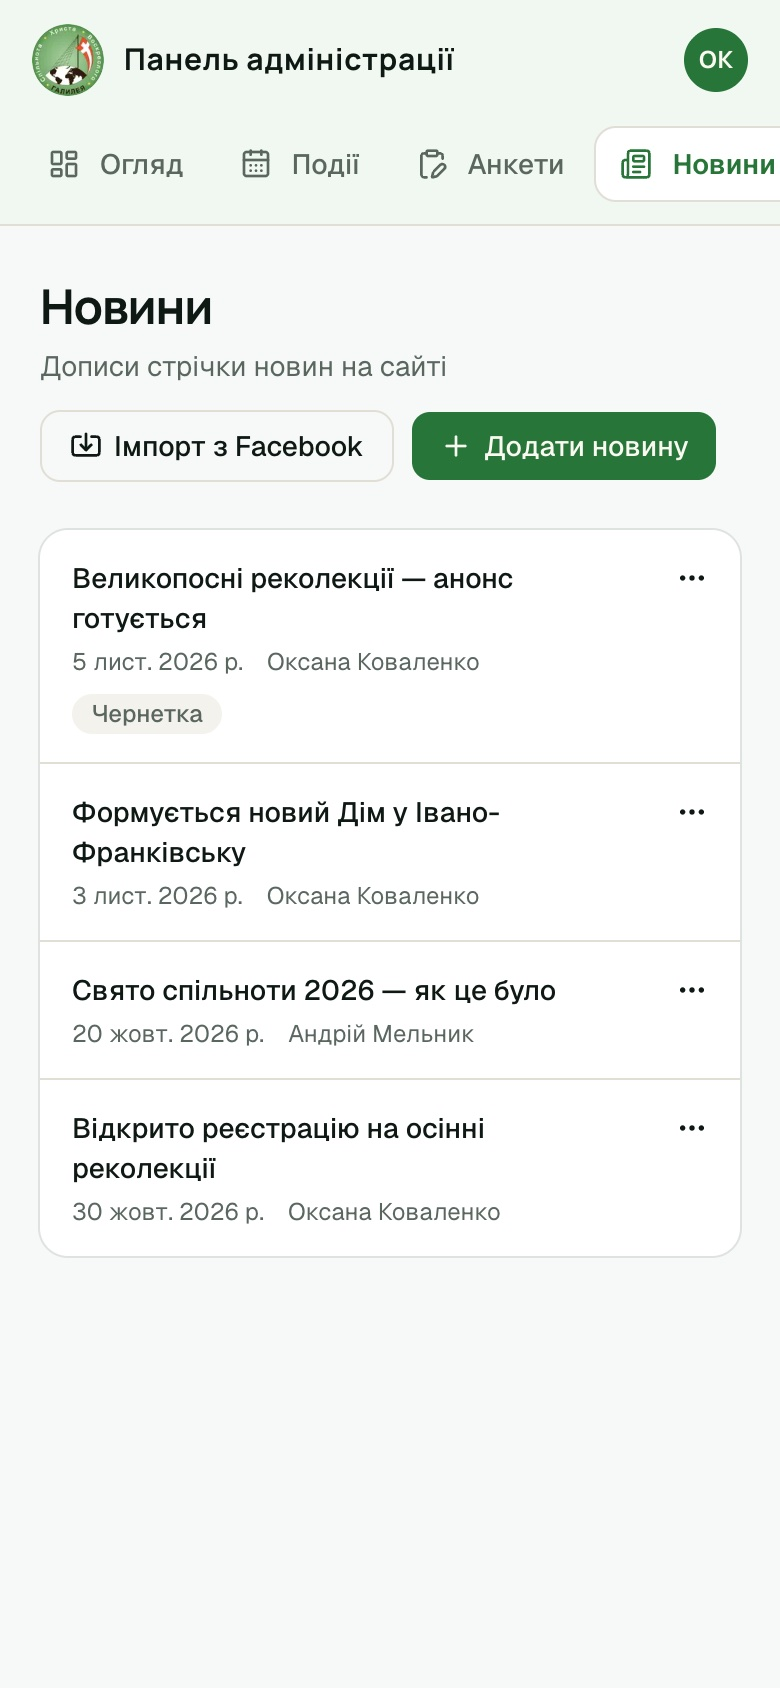
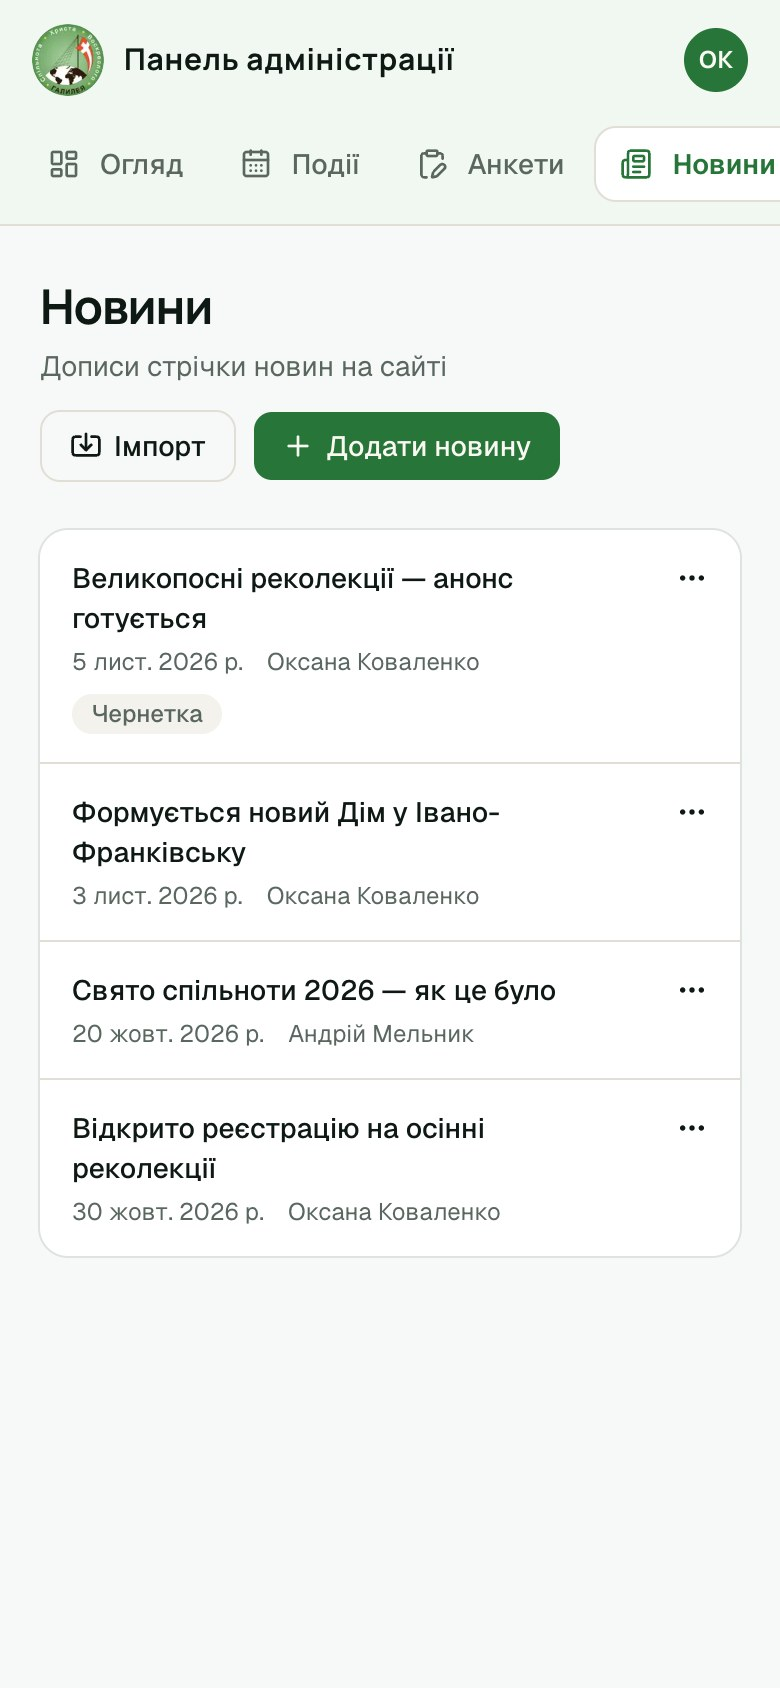
docs(telegram): notification switches on the site; «Імпорт» instead of Facebook
- «Telegram-бот»: two new steps on the linked «Telegram» dialog — which
  account is linked, and the switches (with their hints and folded sections);
  /notifications is "the same in the bot".
- «Telegram для координатора»: «Заявки на Доми» switched on the site and its
  «Напрям» chips, green with a ✓ when picked.
- News: the «Імпорт» button and drafts; the bot menu mock says «Сайт та імпорт».
- New shots telegram-dialog.jpg, hc-telegram-dialog.jpg; ad-news.jpg retaken.

Changed region(s): [[0.2769, 0.2156, 0.9231, 0.3081]]

diff --git a/app.js b/app.js
@@ -26,6 +26,7 @@ const SCREENS = {
   teamAdd: { src: 'img/team-add.jpg', h: 1688, alt: 'Додати до команди' },
   checkin: { src: 'img/checkin.jpg', h: 1688, alt: 'Вкладка «Відвідуваність»' },
   menu: { src: 'img/menu.jpg', h: 1688, alt: 'Меню під аватаром' },
+  telegramDialog: { src: 'img/telegram-dialog.jpg', h: 1688, alt: 'Вікно «Telegram» після підключення' },
   desktop: { src: 'img/desktop.jpg', w: 1280, h: 800, device: 'laptop', alt: 'Адмінпанель на комп’ютері' },
   house: { src: 'img/house.jpg', h: 1688, alt: 'Ваш Дім, вкладка «Загальне»' },
   houseParticipants: { src: 'img/house-participants.jpg', h: 1688, alt: 'Учасники Дому' },
@@ -43,6 +44,7 @@ const SCREENS = {
   hcFeedback: { src: 'img/hc-feedback.jpg', h: 1688, alt: 'Звернення' },
   hcFeedbackRow: { src: 'img/hc-feedback-row.jpg', h: 763, alt: 'Розгорнуте звернення' },
   hcTrash: { src: 'img/hc-trash.jpg', h: 1688, alt: 'Кошик' },
+  hcTelegramDialog: { src: 'img/hc-telegram-dialog.jpg', h: 1688, alt: 'Сповіщення координатора у вікні «Telegram»' },
   // Координатори й адміністратори
   adOverview: { src: 'img/ad-overview.jpg', h: 3400, alt: 'Огляд адміністратора' },
   adSearch: { src: 'img/ad-search.jpg', w: 1280, h: 800, device: 'laptop', alt: 'Пошук в адмінпанелі' },
@@ -281,10 +283,22 @@ const MODULES = [
             text: 'Бот привітає вас на ім’я. Посилання для підключення <b>нікому не пересилайте</b>: хто відкриє його першим, діятиме від вашого імені.',
           },
           {
+            screen: 'telegramDialog',
+            area: [72, 456, 636, 120],
+            title: '«Telegram підключено»',
+            text: 'Вікно «Telegram» на сайті покаже, який акаунт Telegram підключено. «Відкрити бота» веде просто в чат із ботом.',
+          },
+          {
+            screen: 'telegramDialog',
+            spot: [664, 796],
+            title: 'Увімкніть сповіщення',
+            text: 'Тут же, у «Сповіщення в боті», увімкніть те, про що хочете знати: наприклад, «Нові реєстрації» на вашу подію. Під кожним перемикачем написано, коли бот напише. Якщо сповіщень багато, вони згорнуті в розділи — розгорніть потрібний.',
+          },
+          {
             screen: 'chat',
             focus: 'notifications',
             title: '/notifications',
-            text: 'Оберіть, про що сповіщати: наприклад, про нові реєстрації на вашу подію.',
+            text: 'Ті самі сповіщення можна вмикати й вимикати в боті: надішліть /notifications.',
           },
           {
             screen: 'chat',
@@ -297,7 +311,7 @@ const MODULES = [
           q: 'Що зробити спершу, щоб бот надсилав вам сповіщення?',
           options: ['Знайти бота й написати йому своє ім’я', 'Підключити Telegram у меню адмінпанелі', 'Нічого — бот знайде вас сам'],
           answer: 1,
-          why: 'Підключення з адмінпанелі пов’язує ваш Telegram із вашим акаунтом.',
+          why: 'Підключення з адмінпанелі пов’язує ваш Telegram із вашим акаунтом. Потім там же вмикаються сповіщення.',
         },
       },
       {
@@ -1387,10 +1401,22 @@ const MODULES = [
             text: '«Зв’язалися», «Готово», «Відхилити» — змінюють статус так само, як на сайті.',
           },
           {
+            screen: 'hcTelegramDialog',
+            spot: [664, 854],
+            title: 'Сповіщення про нові заявки',
+            text: 'Меню акаунта → «Telegram»: увімкніть «Заявки на Доми» і «Звернення «Напишіть нам»» — бот писатиме про кожну нову.',
+          },
+          {
+            screen: 'hcTelegramDialog',
+            area: [64, 910, 539, 68],
+            title: 'Лише свій напрям',
+            text: 'Позначте «Молодь», «Україна» чи «Закордон» — позначені стають зеленими з ✓. Зніміть усі — і сповіщення про заявки вимкнуться.',
+          },
+          {
             screen: 'chatApplications',
             focus: 'notifications',
             title: '/notifications',
-            text: 'Сповіщення про нові заявки й звернення. Можна лишити лише свій напрям — «Молодь», «Україна» чи «Закордон».',
+            text: 'Ті самі перемикачі й напрями є в боті: надішліть /notifications.',
           },
         ],
         quiz: {
@@ -1687,7 +1713,7 @@ const MODULES = [
       {
         id: 'news',
         title: 'Новини',
-        summary: 'Дописи стрічки новин і чернетки з Facebook.',
+        summary: 'Дописи стрічки новин та імпортовані чернетки.',
         steps: [
           {
             screen: 'adNews',
@@ -1721,14 +1747,14 @@ const MODULES = [
           },
           {
             screen: 'adNews',
-            spot: [217, 446],
-            title: 'Імпорт з Facebook',
-            text: 'Пости зі сторінки Facebook стають чернетками новин. Перевірте заголовок, текст і фото — і публікуйте.',
+            spot: [138, 446],
+            title: '«Імпорт»',
+            text: 'Імпортовані пости стають чернетками новин. Перевірте заголовок, текст і фото — і публікуйте.',
           },
         ],
         quiz: {
-          q: 'Звідки беруться чернетки «З Facebook»?',
-          options: ['Їх пише бот', 'З постів сторінки Facebook — їх треба перевірити й опублікувати', 'Їх надсилають відвідувачі сайту'],
+          q: 'Звідки беруться чернетки з позначкою «Імпорт»?',
+          options: ['Їх пише бот', 'З імпортованих постів — їх треба перевірити й опублікувати', 'Їх надсилають відвідувачі сайту'],
           answer: 1,
           why: 'Імпорт лише готує чернетку — публікуєте ви.',
         },
@@ -2669,7 +2695,7 @@ const MOCKS = {
         <div class="bubble">📥 Чекають на рішення: 2</div>
         <div class="bubble me">/notifications</div>
         <div class="bubble" data-focus="notifications">🔔 <b>Сповіщення</b><br>Про що писати вам тут? Оберіть розділ.
-          <span class="chat-buttons col"><span>📥 Вхідні · 2 з 2 ›</span><span>⚙ Сайт і Facebook · 0 з 2 ›</span></span>
+          <span class="chat-buttons col"><span>📥 Вхідні · 2 з 2 ›</span><span>⚙ Сайт та імпорт · 0 з 2 ›</span></span>
         </div>
       </div>
     </div>`,
